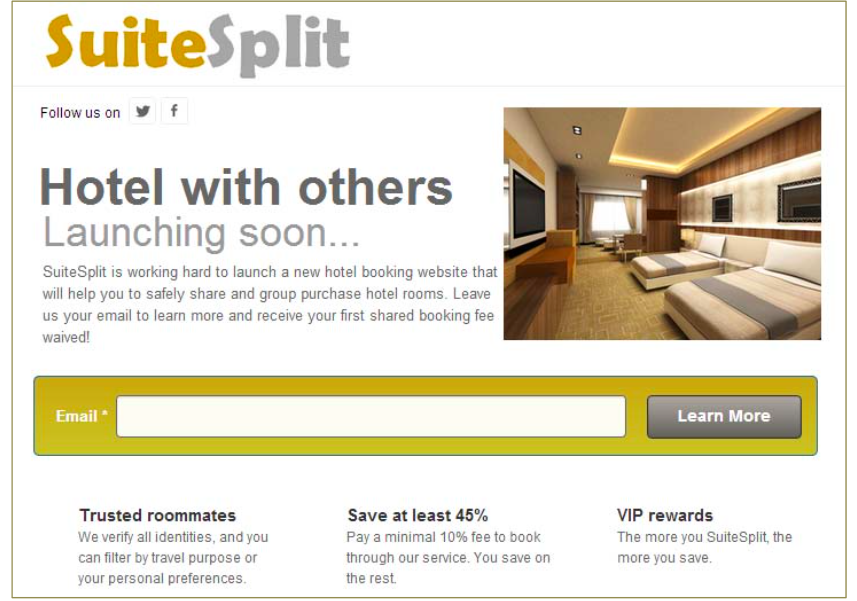
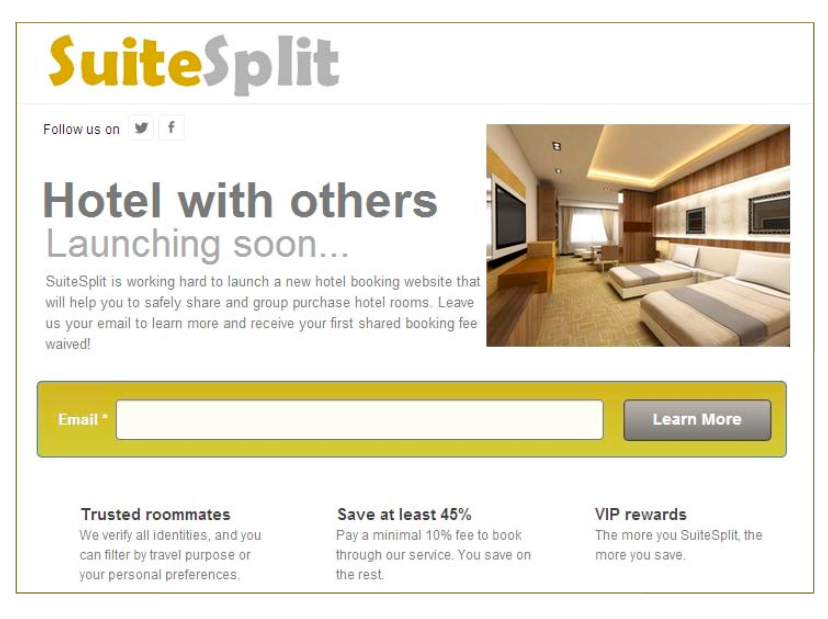
Resized preview images

Changed region(s): [[0.0, 0.0, 0.9964, 1.0]]

diff --git a/index.html b/index.html
@@ -156,11 +156,11 @@
                                 <i class="fa fa-search-plus fa-3x"></i>
                             </div>
                         </div>
-                        <img src="img/portfolio/Pronto/cover.png" class="img-responsive" alt="">
+                        <img src="img/portfolio/Pronto/cover.jpg" class="img-responsive" alt="">
                     </a>
                     <div class="portfolio-caption">
                         <h4>Pronto</h4>
-                        <p class="text-muted">Rapid Prototyping</p>
+                        <p class="text-muted">Hackathon</p>
                     </div>
                 </div>
                 <div class="col-md-6 col-sm-6 portfolio-item">
@@ -187,8 +187,8 @@
                         <img src="img/portfolio/FinFit/winners.jpg" class="img-responsive" alt="">
                     </a>
                     <div class="portfolio-caption">
-                        <h4>FinFit</h4>
-                        <p class="text-muted">Concept Generation</p>
+                        <h4>#FinFit</h4>
+                        <p class="text-muted">Protothon</p>
                     </div>
                 </div>
                 <div class="col-md-6 col-sm-6 portfolio-item">
@@ -1046,7 +1046,7 @@
                 <div class="row ">
                     <div class= "col-xs-1 col-sm-1"></div>
                     <div class= "col-xs-10 col-sm-10" id="subpage_intro">
-                        <div id ="sub_title" ><span>A/B Testing of landing page</span></div>
+                        <div id ="sub_title" ><span>A/B testing of landing page</span></div>
                     </div>    
                     <div class= "col-xs-1 col-sm-1"></div> 
                 </div>
@@ -1093,12 +1093,12 @@
                 <div class="row summary push3">
                     <div class="col-xs-12">
                         <h7>THE CHALLENGE <br> </h7>
-                        <p2>People on a budget often cannot find affordable stays in increasingly expensive and crowded cities. We wanted to find out if there was an interest in hotel sharing as a solution and if so, what business model was preferred. <br><br>The challenge was to develop five distinct landing pages using a service like Unbounced.com that highlight different product pricing options for different ways to share a hotel room. Our goal was to secure at least 1,000 visitors for the landing pages through social media and advertising and at least 500 email addresses from potential customers on the landing page.</p2>
+                        <p2>People on a budget often cannot find affordable stays in increasingly expensive and crowded cities. We wanted to find out if there was an interest in hotel sharing as a solution and if so, what business model was preferred. <br><br>The challenge was to develop five distinct landing pages that highlight different product pricing options for different ways to share a hotel room. Our goal was to secure at least 1,000 visitors for the landing pages through social media and advertising and at least 500 email addresses from potential customers on the landing page.</p2>
                     </div>
                     
                     <div class= "col-xs-12 push2">
                         <h7>THE PROCESS <br> </h7>
-                        <p2> We hypothesized five pricing models for a hotel sharing website. Four were business to consumer models and one was business to business. We used unbounce.com to test the landing pages, which were identical except for the advertised pricing.</p2>
+                        <p2> We hypothesized five pricing models for a hotel sharing website. Four were business to consumer models and one was business to business. We used <a href="http://www.unbounce.com" target="_blank"> unbounce.com</a> to test the landing pages, which were identical except for the advertised pricing.</p2>
                     </div>
 
                     <div class= "col-xs-12 push2">
